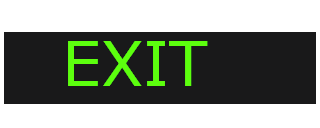
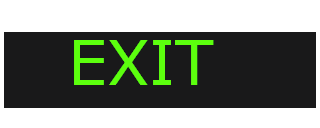
slight improvements

Changed region(s): [[0.1875, 0.3125, 0.6875, 0.6875], [0.0, 0.8125, 1.0, 0.8438]]

diff --git a/maze.py b/maze.py
@@ -273,12 +273,15 @@ class Playfield(FloatLayout):
         if cell == self.bottomRight or cell == self.bottomLeft:
             x = cell.pos[0] + self.wallSize[0] - 1
             y = cell.pos[1] - int(self.floorSize[1]/2)
+            src = self.assetData['goal_bottom']
         else:
-            x = cell.pos[0] + self.wallSize[0] - 1
-            y = cell.pos[1] + self.wallSize[1] - self.wallSize[0] - 1
+            x = cell.pos[0] + self.wallSize[0] - 2
+            y = cell.pos[1] + self.wallSize[1] - self.wallSize[0] - 3
+            src = self.assetData['goal_top']
         w = self.floorSize[0]
-        h = self.floorSize[1] * 2
-        self.goal = Goal(pos=(x,y),size=(w,h), source='assets/blackbar3.png', allow_stretch=True, keep_ratio = True)
+        h = int(self.floorSize[1] * 2)
+        Logger.debug(self.assetData)
+        self.goal = Goal(pos=(x,y),size=(w,h), source=src, allow_stretch=True, keep_ratio = True)
         cell.add_widget(self.goal)
 # ------------------------------------------------------
     def check_collisions(self,sprite,vector):
